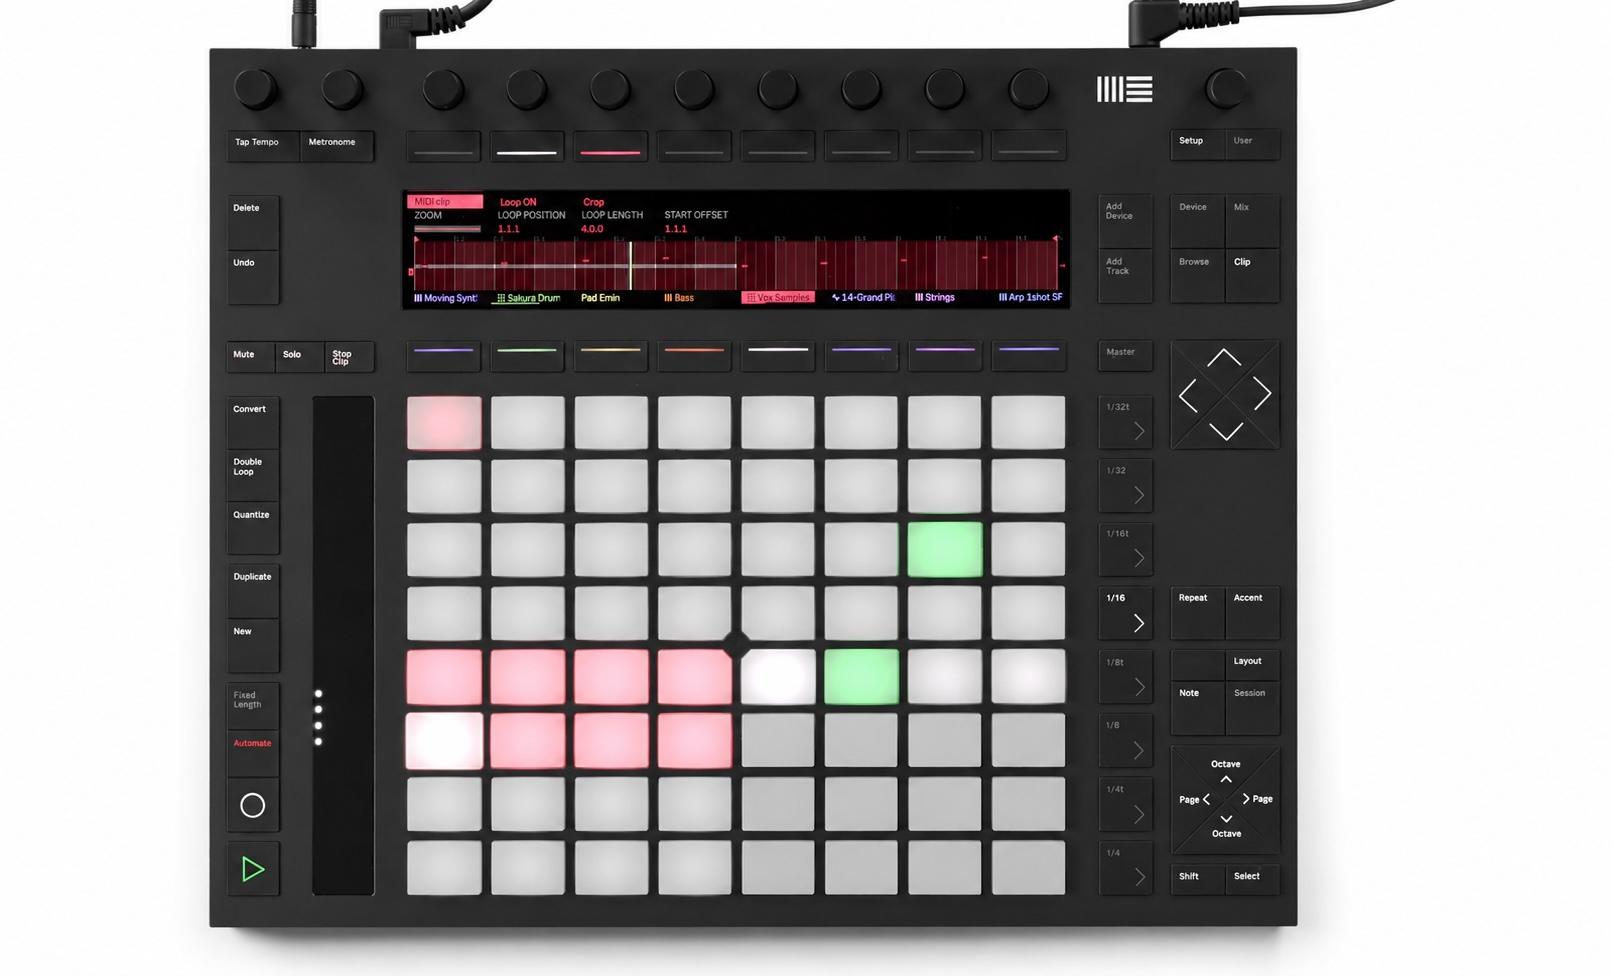
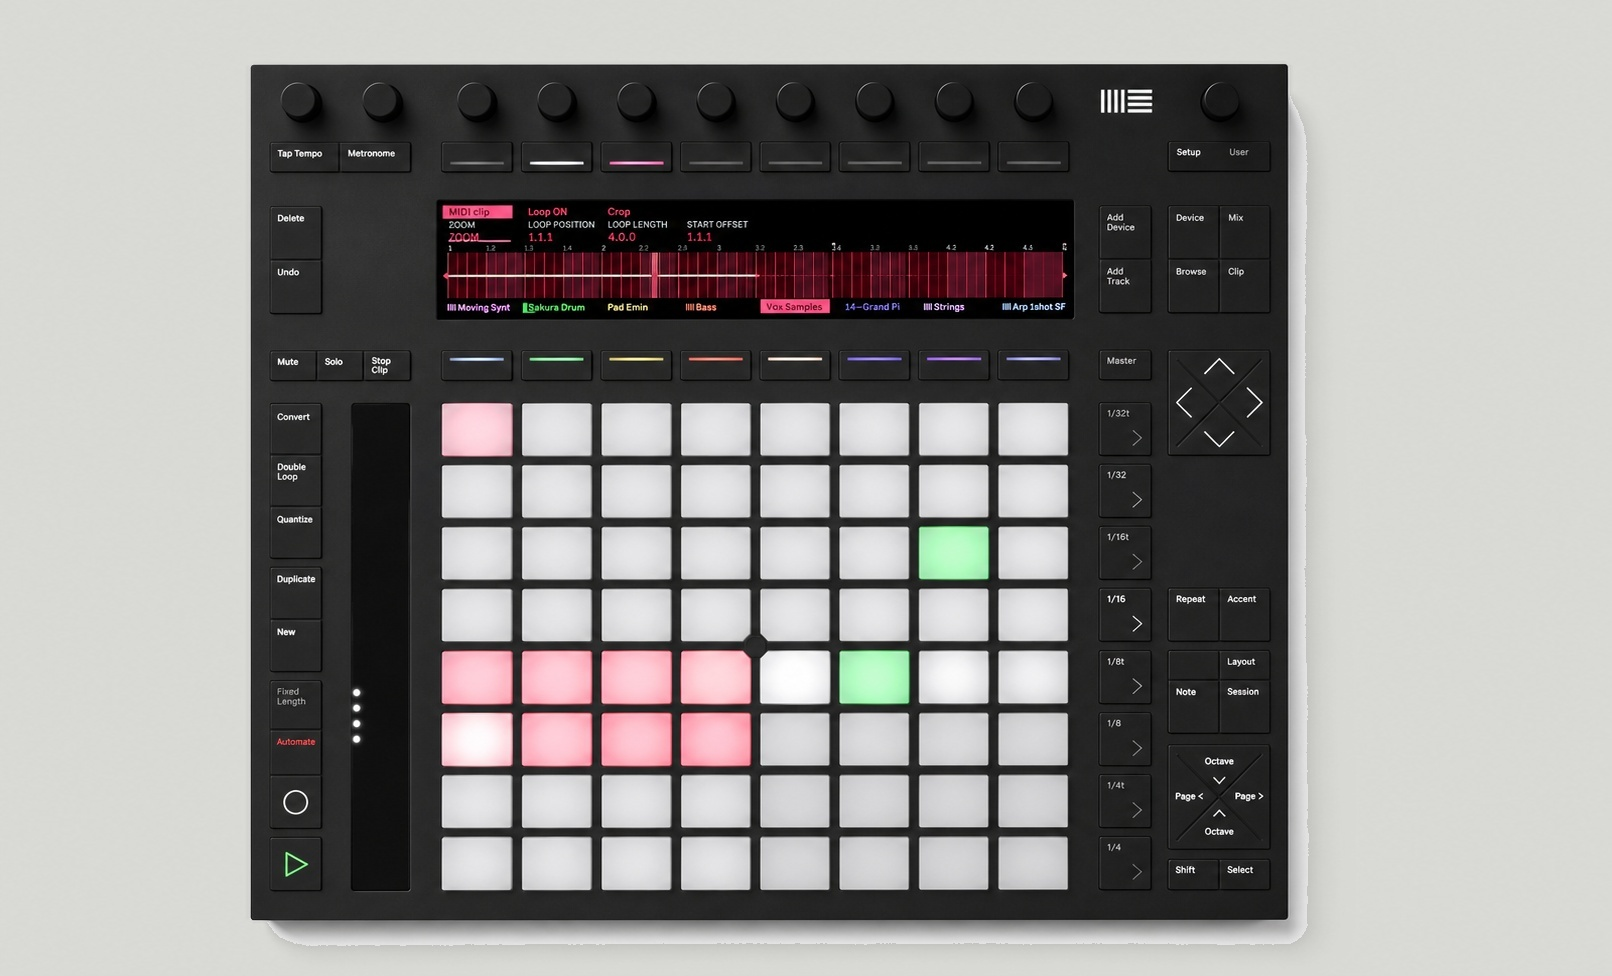
Refine Push page visuals

diff --git a/src/styles.css b/src/styles.css
@@ -618,6 +618,8 @@ h1.hero-title .stop{display:block}
   color:var(--ink);
 }
 .push-split{
+  --push-hero-rule-y:calc(100svh - 88px - var(--s3) - 22px);
+  position:relative;
   display:grid;
   grid-template-columns:1fr 1fr;
   height:calc(100svh - 88px);
@@ -627,17 +629,28 @@ h1.hero-title .stop{display:block}
 }
 .push-product{
   position:relative;
-  display:flex;
-  flex-direction:column;
-  justify-content:center;
   padding:var(--s4) var(--s2) var(--s3);
-  background:#fefefe;
+  background:var(--paper);
   border-right:1px solid var(--line-strong);
   overflow:hidden;
 }
+.push-product::after{
+  content:"";
+  position:absolute;
+  left:0;
+  right:0;
+  top:var(--push-hero-rule-y);
+  height:1px;
+  background:var(--line-strong);
+  pointer-events:none;
+  z-index:3;
+}
 .push-product-frame{
+  position:absolute;
+  top:calc(var(--push-hero-rule-y) / 2);
+  left:calc(50% + 1.9%);
+  transform:translate(-50%,-50%);
   width:112%;
-  margin-left:-6%;
   background:transparent;
   border:0;
 }
@@ -647,15 +660,17 @@ h1.hero-title .stop{display:block}
   display:block;
 }
 .push-product-note{
+  position:absolute;
+  left:var(--pad);
+  right:var(--s3);
+  bottom:14px;
   display:flex;
   justify-content:space-between;
   gap:var(--s3);
-  margin-top:var(--s3);
-  padding-top:var(--s2);
-  border-top:1px solid var(--line-strong);
   font-size:12px;
   line-height:1.4;
   color:var(--mute);
+  z-index:4;
 }
 .push-product-note .mono{
   color:var(--ink);
@@ -665,16 +680,29 @@ h1.hero-title .stop{display:block}
   height:100%;
   overflow-y:auto;
   padding:var(--s5) var(--pad) 0 var(--s5);
+  scroll-snap-type:y mandatory;
+  scroll-behavior:smooth;
   scrollbar-width:none;
 }
 .push-scroll::-webkit-scrollbar{display:none}
 .push-intro{
+  position:relative;
   min-height:calc(100svh - 88px - var(--s5));
   display:flex;
   flex-direction:column;
   justify-content:flex-end;
-  padding-bottom:var(--s6);
-  border-bottom:1px solid var(--line-strong);
+  padding-bottom:calc(var(--s6) + 18px);
+  scroll-snap-align:start;
+  scroll-snap-stop:always;
+}
+.push-intro::after{
+  content:"";
+  position:absolute;
+  left:calc(var(--s5) * -1);
+  right:calc(var(--pad) * -1);
+  top:var(--push-hero-rule-y);
+  height:1px;
+  background:var(--line-strong);
 }
 .push-kicker{
   display:flex;
@@ -695,7 +723,7 @@ h1.hero-title .stop{display:block}
   flex-shrink:0;
 }
 .push-intro h1{
-  font-size:clamp(54px,7.2vw,112px);
+  font-size:clamp(36px,5.2vw,82px);
   font-weight:400;
   line-height:.94;
   letter-spacing:0;
@@ -706,18 +734,21 @@ h1.hero-title .stop{display:block}
   line-height:1;
   font-weight:400;
   letter-spacing:0;
+  color:var(--live);
   max-width:14ch;
   margin-bottom:var(--s4);
 }
 .push-copy{
   font-size:15px;
   line-height:1.55;
-  max-width:48ch;
-  color:var(--mute-2);
+  max-width:46ch;
+  color:var(--ink);
 }
 .push-section{
   padding:var(--s6) 0;
   border-bottom:1px solid var(--line-strong);
+  scroll-snap-align:start;
+  scroll-snap-stop:always;
 }
 .push-section--tight{
   padding-top:var(--s5);
@@ -740,8 +771,17 @@ h1.hero-title .stop{display:block}
   padding:var(--s4) var(--s3);
   border-right:1px solid var(--line-strong);
   border-bottom:1px solid var(--line-strong);
+  background-color:var(--paper);
+  animation:pushPadPulse 5.8s ease-in-out infinite;
+  animation-delay:var(--pad-delay);
 }
 .push-role:nth-child(even){border-right:none}
+.push-role:nth-child(1){--pad-color:rgba(86,128,255,.16);--pad-delay:0s}
+.push-role:nth-child(2){--pad-color:rgba(255,145,56,.16);--pad-delay:.7s}
+.push-role:nth-child(3){--pad-color:rgba(92,186,116,.16);--pad-delay:1.4s}
+.push-role:nth-child(4){--pad-color:rgba(250,215,79,.18);--pad-delay:2.1s}
+.push-role:nth-child(5){--pad-color:rgba(29,31,29,.12);--pad-delay:2.8s}
+.push-role:nth-child(6){--pad-color:rgba(255,255,255,.26);--pad-delay:3.5s}
 .push-role-n{
   display:block;
   font-size:11px;
@@ -762,6 +802,19 @@ h1.hero-title .stop{display:block}
   font-size:13px;
   line-height:1.55;
   color:var(--mute-2);
+}
+@keyframes pushPadPulse{
+  0%, 78%, 100%{
+    background-color:var(--paper);
+  }
+  14%, 24%{
+    background-color:var(--pad-color);
+  }
+}
+@media (prefers-reduced-motion:reduce){
+  .push-role{
+    animation:none;
+  }
 }
 .push-flow{
   display:grid;
@@ -907,7 +960,13 @@ h1.hero-title .stop{display:block}
   display:flex;flex-direction:column;
 }
 .lp-h1-block{display:block}
-.lp-h1-live{color:var(--live);margin-top:0.22em;display:block}
+.lp-h1-live{
+  color:var(--live);
+  display:block;
+  font-size:clamp(30px,3.8vw,62px);
+  line-height:1;
+  margin-top:0.22em;
+}
 .lp-feat-list{list-style:none;display:flex;flex-direction:column}
 .lp-feat-item{
   display:flex;align-items:flex-start;gap:var(--s3);
@@ -2168,14 +2227,38 @@ footer{
     overflow:visible;
   }
   .push-product{
+    display:flex;
+    flex-direction:column;
+    justify-content:center;
     min-height:0;
     border-right:none;
     border-bottom:1px solid var(--line-strong);
+  }
+  .push-product-frame{
+    position:static;
+    width:112%;
+    margin-left:-6%;
+    transform:none;
+    max-width:none;
+  }
+  .push-product-note{
+    position:static;
+    margin-top:var(--s3);
+    padding-top:var(--s2);
+    border-top:1px solid var(--line-strong);
+  }
+  .push-product::after{
+    display:none;
+  }
+  .push-intro::after{
+    display:none;
   }
   .push-scroll{
     height:auto;
     overflow:visible;
     padding:var(--s5) var(--pad) var(--s6);
+    scroll-snap-type:none;
+    scroll-behavior:auto;
   }
   .push-intro{
     min-height:auto;
@@ -2223,7 +2306,7 @@ footer{
     padding:var(--s4) var(--pad) var(--s5);
   }
   .push-intro h1{
-    font-size:clamp(48px,17vw,76px);
+    font-size:clamp(36px,14vw,64px);
   }
   .push-statement{
     font-size:clamp(30px,10vw,48px);

diff --git a/src/components/Push3Page.tsx b/src/components/Push3Page.tsx
@@ -70,7 +70,7 @@ function Push3Page() {
       <section className="push-split" aria-labelledby="push-title">
         <aside className="push-product" aria-label="Push 3 product image">
           <div className="push-product-frame">
-            <img src="/push/push3-product.jpg" alt="Ableton Push 3 hardware" />
+            <img src="/push/push3-product-balanced.jpg" alt="Ableton Push 3 hardware" />
           </div>
           <div className="push-product-note">
             <span className="mono">PUSH 3</span>
